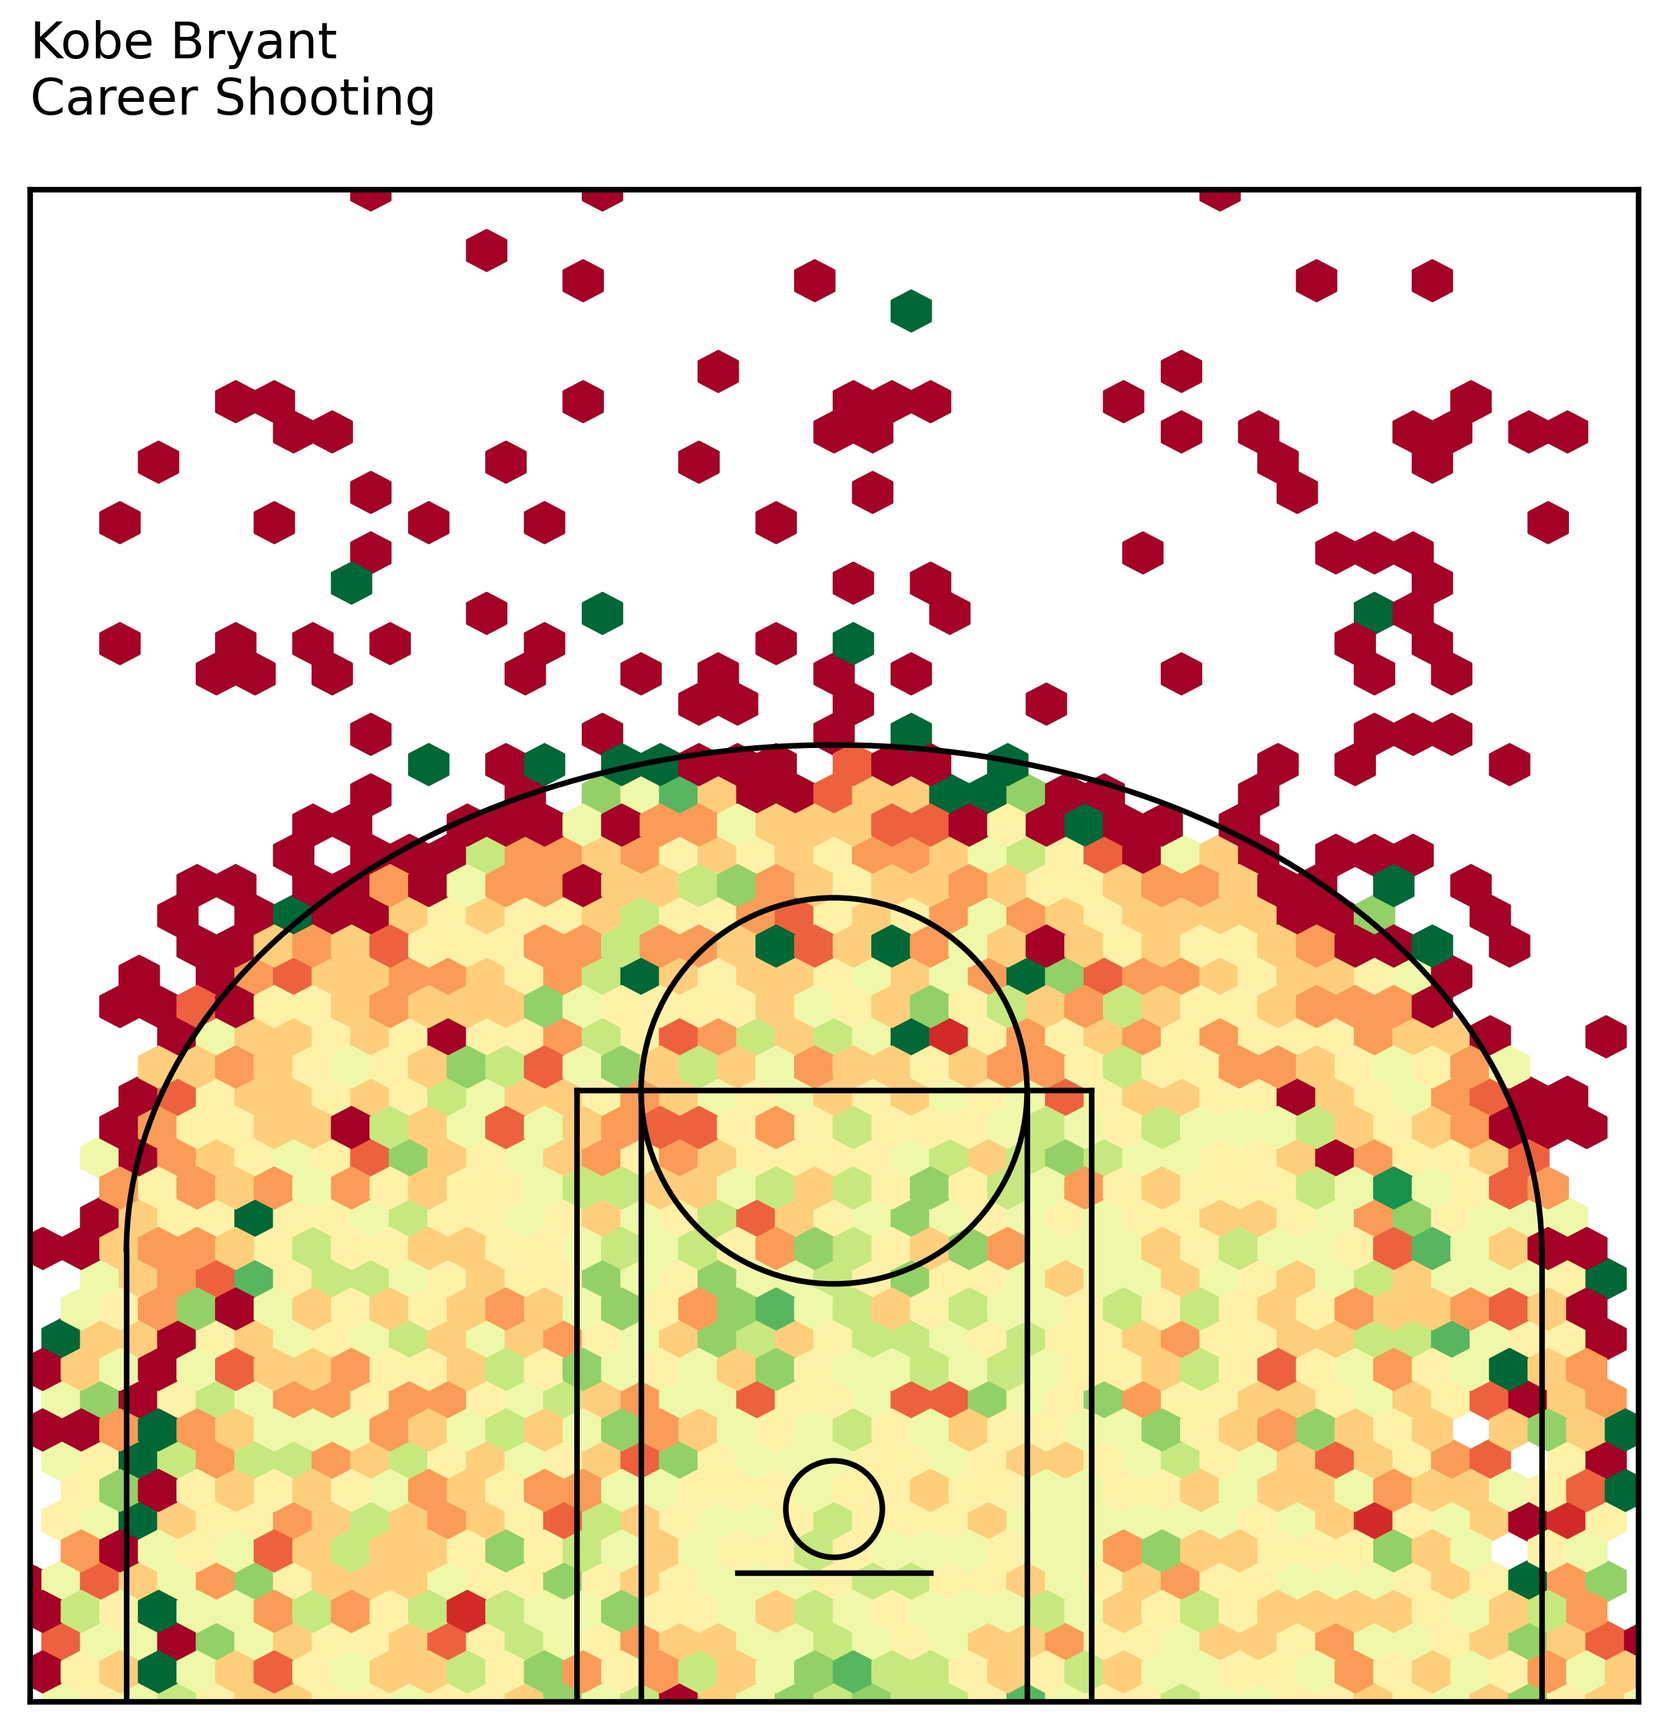
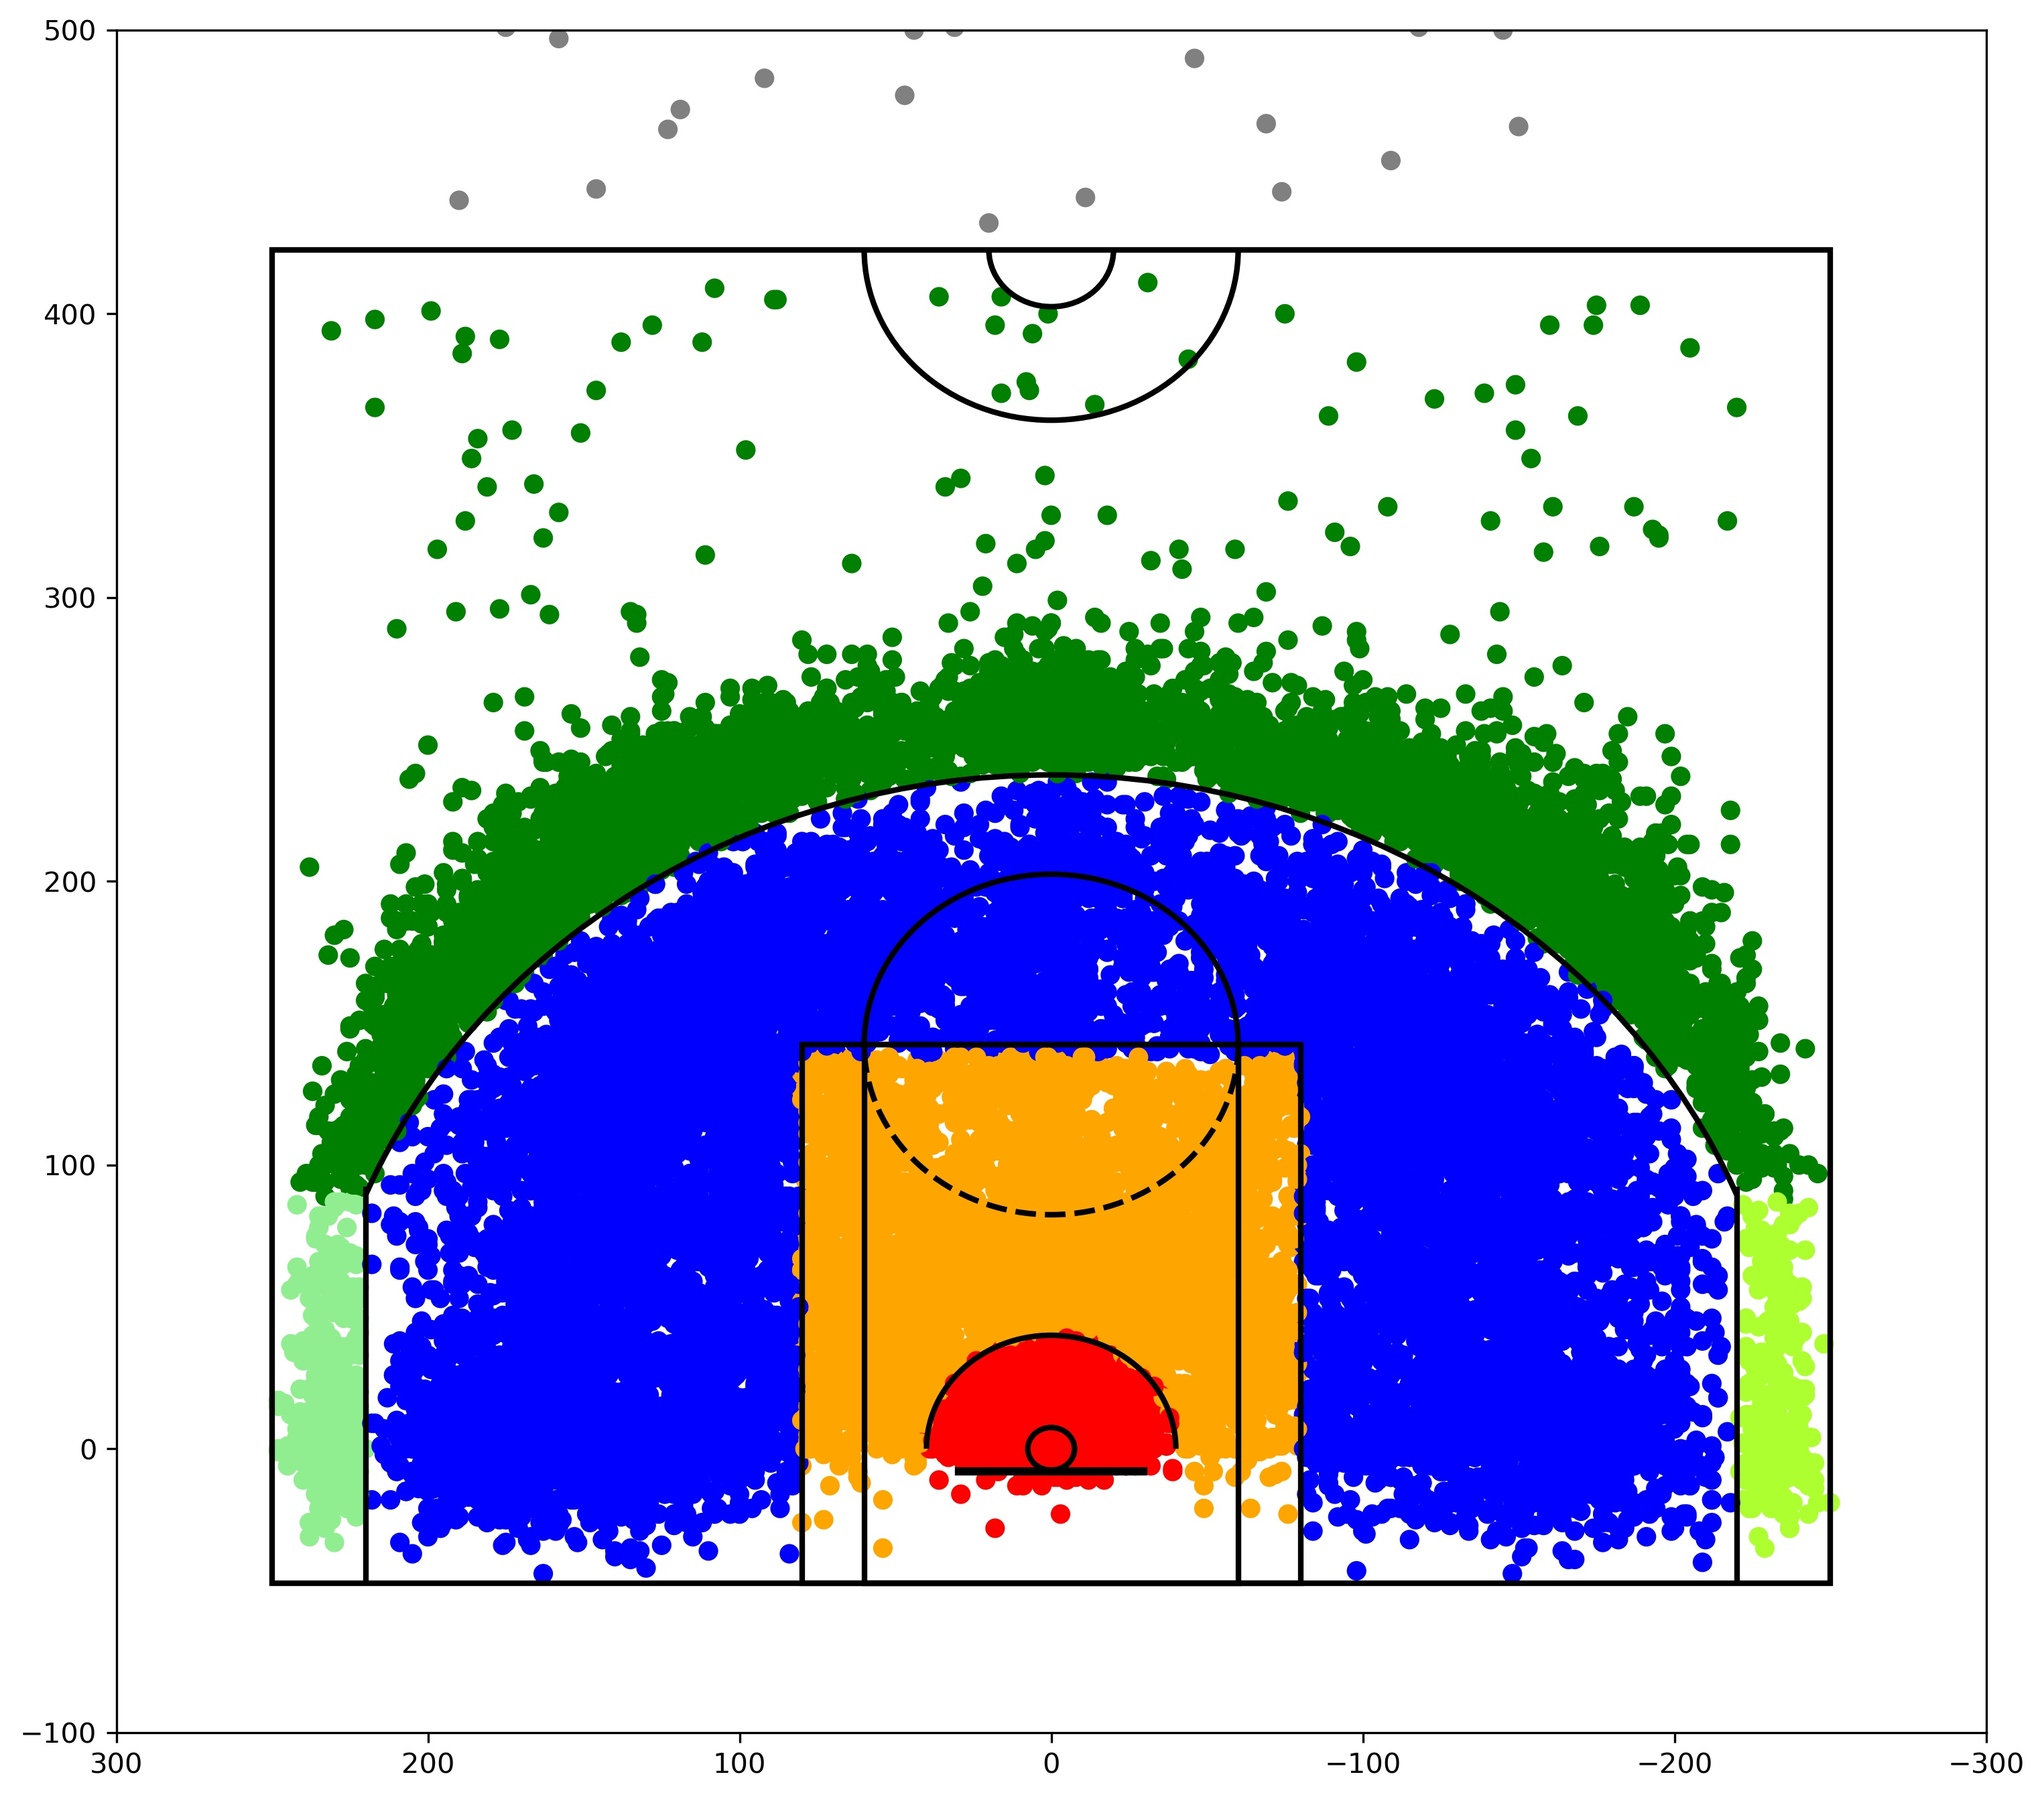
Update EDA code with new shot charts

diff --git a/Code/divya_eda_modeling.py b/Code/divya_eda_modeling.py
@@ -15,9 +15,9 @@ from matplotlib.patches import Circle, Rectangle, Arc
 from matplotlib import rcParams
 
 # Look at dataset
-df = pd.read_csv('../Data/data.csv', header=0)
-print(df.head)
-print(df.columns)
+data = pd.read_csv('../Data/data.csv', header=0)
+print(data.head)
+print(data.columns)
 '''
 ['action_type', 'combined_shot_type', 'game_event_id', 'game_id', 'lat',
        'loc_x', 'loc_y', 'lon', 'minutes_remaining', 'period', 'playoffs',
@@ -28,12 +28,14 @@ print(df.columns)
 '''
 
 # Get column datatypes and summaries
-print(df.dtypes)
+print(data.dtypes)
 
 # Drop rows which were intended for Kaggle competition
 # These rows are missing information about whether the shot was made or not
-df = df[(df['shot_made_flag'] == 1) | (df['shot_made_flag'] == 0)]
-df['made'] = np.where(df['shot_made_flag'] == 1.0, 'Made', 'Missed')
+#
+data1 = data.dropna()
+#data1 = data1[(data1['shot_made_flag'] == 1) | (data1['shot_made_flag'] == 0)]
+data1['made'] = np.where(data1['shot_made_flag'] == 1.0, 'Made', 'Missed')
 
 # ----------------------------------------
 ### EDA ###
@@ -51,8 +53,8 @@ Ideas for EDA. Don't need to do all of them.
 '''
 
 # Shot chart - overlay zone on court
-pd.pivot_table(df, index=['shot_type'],values=['made'], columns=['period'], aggfunc='count')
-pd.pivot_table(df, index=['shot_zone_area'],values=['shot_made_flag'], columns=['made'], aggfunc='count')
+pd.pivot_table(data1, index=['shot_type'],values=['made'], columns=['period'], aggfunc='count')
+pd.pivot_table(data1, index=['shot_zone_area'],values=['shot_made_flag'], columns=['made'], aggfunc='count')
 
 
 # analysis by game time - minutes and seconds
@@ -136,10 +138,10 @@ def draw_court(ax=None, color='black', lw=2, outer_lines=False):
 #plt.ylim(-100,500)
 #plt.show()
 
-made_array = np.where(df['made'] == 'Made', 'green', 'red')
+made_array = np.where(data1['made'] == 'Made', 'green', 'red')
 
 plt.figure(figsize=(12,11))
-plt.scatter(df.loc_x, df.loc_y, c=made_array)
+plt.scatter(data1.loc_x, data1.loc_y, c=made_array)
 draw_court(outer_lines=True)
 # Descending values along the axis from left to right
 plt.xlim(300,-300)
@@ -147,9 +149,50 @@ plt.ylim(-100,500)
 plt.savefig('../Graphs/ShotChart_v1_draft.jpeg', dpi=300, bbox_inches='tight')
 plt.show()
 
+print(data1.shot_zone_area.unique())
 
 
-ax = df.plot.hexbin(x='loc_x',
+shot_zone_dict = {'Left Side(L)': 'red',
+                  'Left Side Center(LC)': 'orange',
+                  'Center(C)': 'purple',
+                  'Right Side Center(RC)': 'green',
+                  'Right Side(R)': 'blue',
+                  'Back Court(BC)': 'grey'
+}
+
+
+plt.figure(figsize=(12,11))
+plt.scatter(data1.loc_x, data1.loc_y, c=data1['shot_zone_area'].map(shot_zone_dict))
+draw_court(outer_lines=True)
+# Descending values along the axis from left to right
+plt.xlim(300,-300)
+plt.ylim(-100,500)
+plt.savefig('../Graphs/ShotChart_v2_draft.jpeg', dpi=300, bbox_inches='tight')
+plt.show()
+
+shot_zone_basic_dict = {
+    'Mid-Range':'blue',
+    'Restricted Area':'red',
+    'In The Paint (Non-RA)':'orange',
+    'Above the Break 3':'green',
+    'Right Corner 3':'lightgreen',
+    'Backcourt':'grey',
+    'Left Corner 3':'greenyellow'
+
+}
+
+plt.figure(figsize=(12,11))
+plt.scatter(data1.loc_x, data1.loc_y, c=data1['shot_zone_basic'].map(shot_zone_basic_dict))
+draw_court(outer_lines=True)
+# Descending values along the axis from left to right
+plt.xlim(300,-300)
+plt.ylim(-100,500)
+plt.savefig('../Graphs/ShotChart_v3_draft.jpeg', dpi=300, bbox_inches='tight')
+plt.show()
+
+'''
+# Decide if we still need this
+ax = data1.plot.hexbin(x='loc_x',
                     y='loc_y',
                     C='shot_made_flag',
                     reduce_C_function=np.mean,
@@ -161,6 +204,7 @@ plt.savefig('../Graphs/ShotChart_v2_draft.jpeg', dpi=300, bbox_inches='tight')
 #plt.xlim(300,-300)
 #plt.ylim(-100,500)
 #plt.show()
+'''
 
 # Add hex to aggregate shot values
 def create_court(ax, color):
@@ -208,11 +252,11 @@ ax = fig.add_axes([0, 0, 1, 1])
 ax = create_court(ax, 'black')
 
 # Plot hexbin of shots
-ax.hexbin(df['loc_x'], df['loc_y'] + 1,
+ax.hexbin(data1['loc_x'], data1['loc_y'] + 60,
           gridsize=(50, 50),
           extent=(-300, 300, 0, 940),
           bins=12,
-          C=df['shot_made_flag'],
+          C=data1['shot_made_flag'],
           reduce_C_function=np.mean,
           cmap='RdYlGn')
 
@@ -220,14 +264,12 @@ ax.hexbin(df['loc_x'], df['loc_y'] + 1,
 ax.text(0, 1.05, 'Kobe Bryant\nCareer Shooting', transform=ax.transAxes, ha='left', va='baseline')
 
 # Save and show figure
-plt.savefig('../Graphs/ShotChart_v3_draft.jpeg', dpi=300, bbox_inches='tight')
+plt.savefig('../Graphs/ShotChart_v4_draft.jpeg', dpi=300, bbox_inches='tight')
 plt.show()
 
 
-# Add avg field goal percentage on 2's versus 3's
-
-# Add avg field goal percentage by zone
-
-# Add avg field goal percentage by quarter
-
 # Add avg field goal percentage by distance - do (1) bins and (2) continuous line
+
+# Look at shot zone chart for teams in which he had highest field goal percentage and lowest field goal percentage
+# Use effective field goal percentage
+# https://www.basketball-reference.com/about/glossary.html
